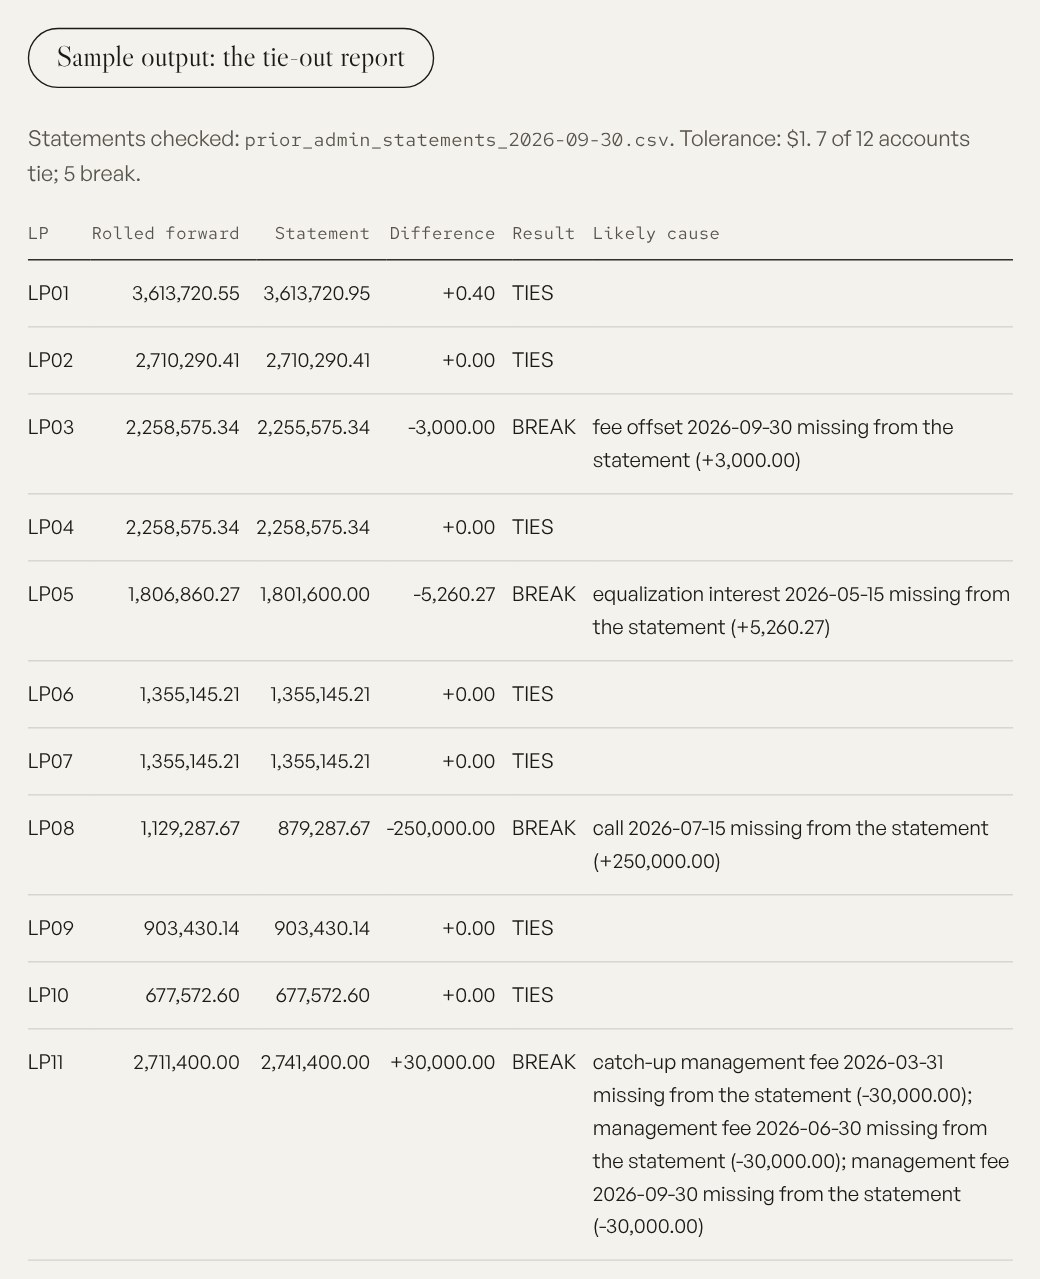
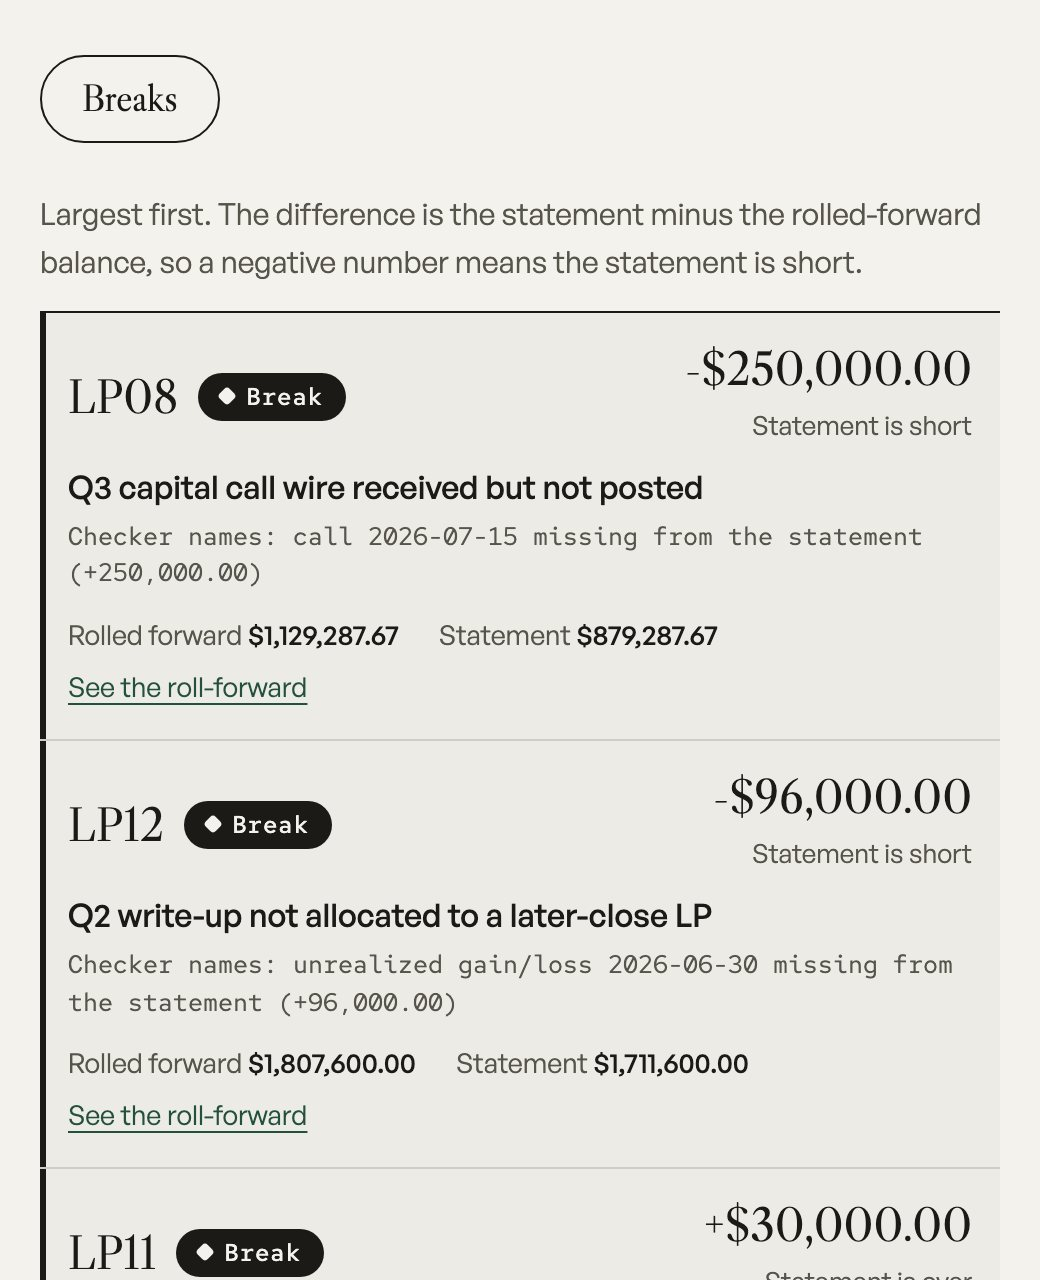
Refresh thumbnails from the redesigned demo pages; make all but Visual Context Extractor automatic

diff --git a/index.html b/index.html
@@ -190,15 +190,15 @@ p { margin: 0; }
       <div class="tiles">
         <div class="tiles__col">
         <a class="tile tile--n" href="https://pg2342-hub.github.io/booking-eval-harness/">
-          <span class="tile__frame"><span class="tile__shot"><img src="work/booking-eval-harness.jpg?v=20261123" width="720" height="490" alt="Booking eval results: the reference agent passes 25 of 25 cases with no critical errors, gate pass; the naive agent passes 5 of 25 with 7 critical errors, gate fail." loading="lazy"></span></span>
+          <span class="tile__frame"><span class="tile__shot"><img src="work/booking-eval-harness.jpg?v=20261124" width="720" height="490" alt="Same 25 calls, same gate: the reference agent passes all 25, GO; the naive agent passes 5 of 25 with 7 critical errors, NO-GO." loading="lazy"></span></span>
           <span class="tile__cap"><span class="tile__row"><b>Booking eval harness</b><span class="tag mono">Live demo <svg viewBox="0 0 12 12" aria-hidden="true"><path d="M3.5 8.5 8.5 3.5M4.5 3.5h4v4"/></svg></span></span><span>A 25-case eval and go-live gate for an agent that books field-service jobs.</span></span>
         </a>
         <a class="tile tile--t" href="https://pg2342-hub.github.io/contract-memory-harness/">
-          <span class="tile__frame"><span class="tile__shot"><img data-thumb="manual" style="max-width:480px" src="work/contract-memory-harness.jpg?v=20261123b" width="480" height="640" alt="Contract memory results: long context and the precomputed memory both answer 25 of 25, with 10x fewer context tokens a question for the memory; 5 of 5 changed answers went stale until it was rebuilt." loading="lazy"></span></span>
+          <span class="tile__frame"><span class="tile__shot"><img style="max-width:480px" src="work/contract-memory-harness.jpg?v=20261124" width="480" height="640" alt="Same answers at 10x fewer tokens: long context and the precomputed memory both get 25 of 25, while retrieval and the tool agent get 19 of 25; 5 of 5 answers went stale after amendments until the memory was rebuilt." loading="lazy"></span></span>
           <span class="tile__cap"><span class="tile__row"><b>Contract memory harness</b><span class="tag mono">Live demo <svg viewBox="0 0 12 12" aria-hidden="true"><path d="M3.5 8.5 8.5 3.5M4.5 3.5h4v4"/></svg></span></span><span>Four ways to give an agent memory over a contract bank, and what breaks after an amendment.</span></span>
         </a>
         <a class="tile tile--t" href="https://pg2342-hub.github.io/capital-account-tieout/">
-          <span class="tile__frame"><span class="tile__shot"><img data-thumb="manual" style="max-width:520px" src="work/capital-account-tieout.jpg?v=20261123b" width="520" height="640" alt="Tie-out report: LP accounts that tie and the five that break, each with its difference." loading="lazy"></span></span>
+          <span class="tile__frame"><span class="tile__shot"><img style="max-width:520px" src="work/capital-account-tieout.jpg?v=20261124" width="520" height="640" alt="Breaks ledger, largest first: LP08 is short $250,000 for a capital call wire not posted, and LP12 is short $96,000 for a write-up not allocated." loading="lazy"></span></span>
           <span class="tile__cap"><span class="tile__row"><b>Capital account tie-out</b><span class="tag mono">Live demo <svg viewBox="0 0 12 12" aria-hidden="true"><path d="M3.5 8.5 8.5 3.5M4.5 3.5h4v4"/></svg></span></span><span>Ties every LP capital account before a fund admin switch and names the likely cause of each break.</span></span>
         </a>
         </div>
@@ -208,15 +208,15 @@ p { margin: 0; }
           <span class="tile__cap"><span class="tile__row"><b>Visual Context Extractor</b><span class="tag mono">Live app <svg viewBox="0 0 12 12" aria-hidden="true"><path d="M3.5 8.5 8.5 3.5M4.5 3.5h4v4"/></svg></span></span><span>Turns client screenshots and system diagrams into source-cited findings, each pinned to the spot it came from, for a consultant to confirm or dismiss.</span></span>
         </a>
         <a class="tile tile--w" href="https://pg2342-hub.github.io/golive-gate/">
-          <span class="tile__frame"><span class="tile__shot"><img src="work/golive-gate.jpg?v=20261123" width="720" height="640" alt="Same cases, same gate: the policy-following refund agent gets GO with 12 of 12 cases passed on all 3 runs; the refund-everything agent gets NO-GO, at best 6 of 12 with 4 critical failures on every run." loading="lazy"></span></span>
+          <span class="tile__frame"><span class="tile__shot"><img src="work/golive-gate.jpg?v=20261124" width="720" height="640" alt="Same cases, same gate: the policy-following refund agent passes 12 of 12 cases on every run, with every risky and edge case held, GO." loading="lazy"></span></span>
           <span class="tile__cap"><span class="tile__row"><b>golive-gate</b><span class="tag mono">Live demo <svg viewBox="0 0 12 12" aria-hidden="true"><path d="M3.5 8.5 8.5 3.5M4.5 3.5h4v4"/></svg></span></span><span>The pattern behind every build here as one open-source Python package, CLI and GitHub Action: eval cases, judge checks, and a go-live gate that answers go, partial or no-go.</span></span>
         </a>
         <a class="tile tile--w" href="https://pg2342-hub.github.io/golive-readiness-check/">
-          <span class="tile__frame"><span class="tile__shot"><img src="work/golive-readiness-check.jpg?v=20261123" width="720" height="640" alt="Units section of the go-live readiness board: eight hospital units, six NO-GO, one GO with fixes, and one GO, each with its blocking and warning counts." loading="lazy"></span></span>
+          <span class="tile__frame"><span class="tile__shot"><img src="work/golive-readiness-check.jpg?v=20261124" width="720" height="640" alt="Readiness board, not ready: 6 of 8 units are NO-GO, 1 GO with fixes and 1 GO, with 26 findings for 5 teams to fix." loading="lazy"></span></span>
           <span class="tile__cap"><span class="tile__row"><b>Go-live readiness check</b><span class="tag mono">Live demo <svg viewBox="0 0 12 12" aria-hidden="true"><path d="M3.5 8.5 8.5 3.5M4.5 3.5h4v4"/></svg></span></span><span>Unit-by-unit go or no-go for a hospital staffing rollout, with fixes grouped by owning team.</span></span>
         </a>
         <a class="tile tile--w" href="https://pg2342-hub.github.io/ticket-routing-eval/">
-          <span class="tile__frame"><span class="tile__shot"><img data-thumb="manual" src="work/ticket-routing-eval.jpg?v=20261123b" width="720" height="456" alt="Ticket routing chart: as the confidence threshold rises, the share routed automatically falls, accuracy rises, and the cost per 1,000 tickets dips then climbs." loading="lazy"></span></span>
+          <span class="tile__frame"><span class="tile__shot"><img src="work/ticket-routing-eval.jpg?v=20261124" width="720" height="456" alt="Same 319 newer tickets, four ways to route them: routing everything gets 74.9% right at $1,243 per 1,000 tickets and misses the 95% bar." loading="lazy"></span></span>
           <span class="tile__cap"><span class="tile__row"><b>Ticket routing eval</b><span class="tag mono">Live demo <svg viewBox="0 0 12 12" aria-hidden="true"><path d="M3.5 8.5 8.5 3.5M4.5 3.5h4v4"/></svg></span></span><span>Picks the confidence bar for auto-routing support tickets, with the cost per 1,000 tickets.</span></span>
         </a>
         </div>

diff --git a/builds/rollout-readiness/index.html b/builds/rollout-readiness/index.html
@@ -43,11 +43,11 @@
       <div class="section__top"><h2 class="label" id="feat-h">Featured</h2></div>
       <div class="ltiles">
         <a class="tile tile--l" href="https://pg2342-hub.github.io/golive-readiness-check/">
-          <span class="tile__frame"><span class="tile__shot"><img src="../../work/golive-readiness-check.jpg?v=20261123" width="720" height="640" alt="Units section of the go-live readiness board: eight hospital units, six NO-GO, one GO with fixes, and one GO, each with its blocking and warning counts." loading="lazy"></span></span>
+          <span class="tile__frame"><span class="tile__shot"><img src="../../work/golive-readiness-check.jpg?v=20261124" width="720" height="640" alt="Readiness board, not ready: 6 of 8 units are NO-GO, 1 GO with fixes and 1 GO, with 26 findings for 5 teams to fix." loading="lazy"></span></span>
           <span class="tile__cap"><span class="tile__row"><b>Go-live readiness check</b><span class="tag mono">Live demo <svg viewBox="0 0 12 12" aria-hidden="true"><path d="M3.5 8.5 8.5 3.5M4.5 3.5h4v4"/></svg></span></span><span>Unit-by-unit go or no-go for a hospital staffing rollout, with fixes grouped by owning team.</span></span>
         </a>
         <a class="tile tile--l" href="https://pg2342-hub.github.io/capital-account-tieout/">
-          <span class="tile__frame"><span class="tile__shot"><img data-thumb="manual" style="max-width:520px" src="../../work/capital-account-tieout.jpg?v=20261123b" width="520" height="640" alt="Tie-out report: LP accounts that tie and the five that break, each with its difference." loading="lazy"></span></span>
+          <span class="tile__frame"><span class="tile__shot"><img style="max-width:520px" src="../../work/capital-account-tieout.jpg?v=20261124" width="520" height="640" alt="Breaks ledger, largest first: LP08 is short $250,000 for a capital call wire not posted, and LP12 is short $96,000 for a write-up not allocated." loading="lazy"></span></span>
           <span class="tile__cap"><span class="tile__row"><b>Capital account tie-out</b><span class="tag mono">Live demo <svg viewBox="0 0 12 12" aria-hidden="true"><path d="M3.5 8.5 8.5 3.5M4.5 3.5h4v4"/></svg></span></span><span>Ties every LP capital account before a fund admin switch and names the likely cause of each break.</span></span>
         </a>
       </div>

diff --git a/builds/evals/index.html b/builds/evals/index.html
@@ -43,11 +43,11 @@
       <div class="section__top"><h2 class="label" id="feat-h">Featured</h2></div>
       <div class="ltiles">
         <a class="tile tile--l" href="https://pg2342-hub.github.io/booking-eval-harness/">
-          <span class="tile__frame"><span class="tile__shot"><img src="../../work/booking-eval-harness.jpg?v=20261123" width="720" height="490" alt="Booking eval results: the reference agent passes 25 of 25 cases with no critical errors, gate pass; the naive agent passes 5 of 25 with 7 critical errors, gate fail." loading="lazy"></span></span>
+          <span class="tile__frame"><span class="tile__shot"><img src="../../work/booking-eval-harness.jpg?v=20261124" width="720" height="490" alt="Same 25 calls, same gate: the reference agent passes all 25, GO; the naive agent passes 5 of 25 with 7 critical errors, NO-GO." loading="lazy"></span></span>
           <span class="tile__cap"><span class="tile__row"><b>Booking eval harness</b><span class="tag mono">Live demo <svg viewBox="0 0 12 12" aria-hidden="true"><path d="M3.5 8.5 8.5 3.5M4.5 3.5h4v4"/></svg></span></span><span>A 25-case eval and go-live gate for an agent that books field-service jobs.</span></span>
         </a>
         <a class="tile tile--l" href="https://pg2342-hub.github.io/ticket-routing-eval/">
-          <span class="tile__frame"><span class="tile__shot"><img data-thumb="manual" src="../../work/ticket-routing-eval.jpg?v=20261123b" width="720" height="456" alt="Ticket routing chart: as the confidence threshold rises, the share routed automatically falls, accuracy rises, and the cost per 1,000 tickets dips then climbs." loading="lazy"></span></span>
+          <span class="tile__frame"><span class="tile__shot"><img src="../../work/ticket-routing-eval.jpg?v=20261124" width="720" height="456" alt="Same 319 newer tickets, four ways to route them: routing everything gets 74.9% right at $1,243 per 1,000 tickets and misses the 95% bar." loading="lazy"></span></span>
           <span class="tile__cap"><span class="tile__row"><b>Ticket routing eval</b><span class="tag mono">Live demo <svg viewBox="0 0 12 12" aria-hidden="true"><path d="M3.5 8.5 8.5 3.5M4.5 3.5h4v4"/></svg></span></span><span>Picks the confidence bar for auto-routing support tickets, with the cost per 1,000 tickets.</span></span>
         </a>
       </div>

diff --git a/builds/agent-studies/index.html b/builds/agent-studies/index.html
@@ -47,7 +47,7 @@
           <span class="tile__cap"><span class="tile__row"><b>Visual Context Extractor</b><span class="tag mono">Live app <svg viewBox="0 0 12 12" aria-hidden="true"><path d="M3.5 8.5 8.5 3.5M4.5 3.5h4v4"/></svg></span></span><span>Turns client screenshots and system diagrams into source-cited findings, each pinned to the spot it came from, for a consultant to confirm or dismiss.</span></span>
         </a>
         <a class="tile tile--l" href="https://pg2342-hub.github.io/contract-memory-harness/">
-          <span class="tile__frame"><span class="tile__shot"><img data-thumb="manual" style="max-width:480px" src="../../work/contract-memory-harness.jpg?v=20261123b" width="480" height="640" alt="Contract memory results: long context and the precomputed memory both answer 25 of 25, with 10x fewer context tokens a question for the memory; 5 of 5 changed answers went stale until it was rebuilt." loading="lazy"></span></span>
+          <span class="tile__frame"><span class="tile__shot"><img style="max-width:480px" src="../../work/contract-memory-harness.jpg?v=20261124" width="480" height="640" alt="Same answers at 10x fewer tokens: long context and the precomputed memory both get 25 of 25, while retrieval and the tool agent get 19 of 25; 5 of 5 answers went stale after amendments until the memory was rebuilt." loading="lazy"></span></span>
           <span class="tile__cap"><span class="tile__row"><b>Contract memory harness</b><span class="tag mono">Live demo <svg viewBox="0 0 12 12" aria-hidden="true"><path d="M3.5 8.5 8.5 3.5M4.5 3.5h4v4"/></svg></span></span><span>Four ways to give an agent memory over a contract bank, and what breaks after an amendment.</span></span>
         </a>
       </div>

diff --git a/builds/go-live-gates/index.html b/builds/go-live-gates/index.html
@@ -43,7 +43,7 @@
       <div class="section__top"><h2 class="label" id="feat-h">Featured</h2></div>
       <div class="ltiles ltiles--solo">
         <a class="tile tile--l" href="https://pg2342-hub.github.io/golive-gate/">
-          <span class="tile__frame"><span class="tile__shot"><img src="../../work/golive-gate.jpg?v=20261123" width="720" height="640" alt="Same cases, same gate: the policy-following refund agent gets GO with 12 of 12 cases passed on all 3 runs; the refund-everything agent gets NO-GO, at best 6 of 12 with 4 critical failures on every run." loading="lazy"></span></span>
+          <span class="tile__frame"><span class="tile__shot"><img src="../../work/golive-gate.jpg?v=20261124" width="720" height="640" alt="Same cases, same gate: the policy-following refund agent passes 12 of 12 cases on every run, with every risky and edge case held, GO." loading="lazy"></span></span>
           <span class="tile__cap"><span class="tile__row"><b>golive-gate</b><span class="tag mono">Live demo <svg viewBox="0 0 12 12" aria-hidden="true"><path d="M3.5 8.5 8.5 3.5M4.5 3.5h4v4"/></svg></span></span><span>The pattern behind every build here as one open-source Python package, CLI and GitHub Action: eval cases, judge checks, and a go-live gate that answers go, partial or no-go.</span></span>
         </a>
       </div>
